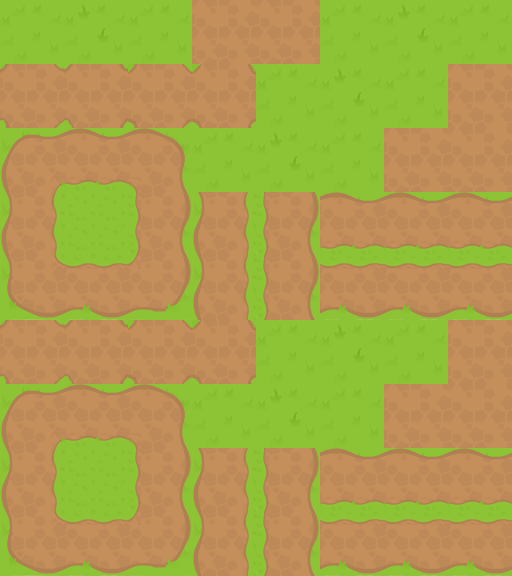
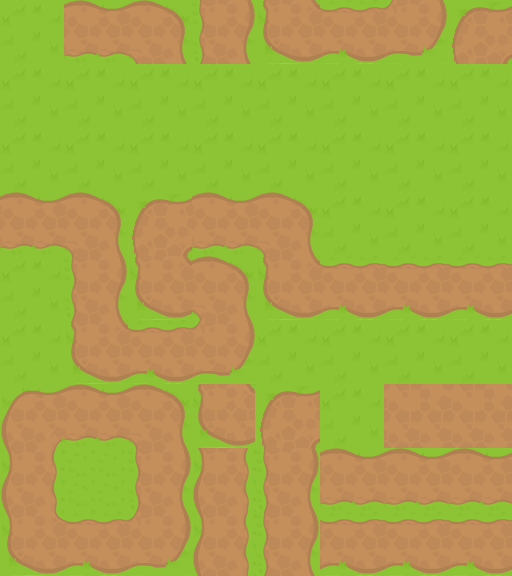
fix gamemap and add method find path

diff --git a/src/background/TileMap.java b/src/background/TileMap.java
@@ -6,8 +6,6 @@ import java.util.ArrayList;
 
 public class TileMap extends ImageView {
 
-	private final String TILEMAP_64 = "res/map/Dirt-Grass-Path-64bit.png";
-
 	private int[][] map;
 	private final int RESOLUTION_WIDTH;
 	private final int RESOLUTION_HEIGHT;
@@ -45,26 +43,24 @@ public class TileMap extends ImageView {
 	}
 
 	private int[][] generateMapArray() {
-		int[][] map = new int[][] { 
-				{ 0, 0, 0, 0, 0, 0, 0, 0, 0, 0, 0, 0, 0, 0, 0, 0, 0, 0, 0, 0 },
+		int[][] map = new int[][] { { 0, 0, 0, 0, 0, 0, 0, 0, 0, 0, 0, 0, 0, 0, 0, 0, 0, 0, 0, 0 },
 				{ 1, 1, 1, 2, 0, 0, 0, 0, 0, 0, 0, 0, 0, 0, 0, 0, 0, 0, 0, 0 },
 				{ 0, 0, 0, 3, 0, 0, 0, 0, 0, 0, 0, 0, 0, 0, 0, 0, 0, 0, 0, 0 },
-				{ 0, 0, 0, 3, 0, 0, 0, 7, 1, 1, 1, 1, 1, 2, 0, 0, 0, 0, 0, 0 },
-				{ 0, 0, 0, 3, 0, 0, 0, 3, 0, 0, 0, 0, 0, 3, 0, 0, 0, 0, 0, 0 },
-				{ 0, 0, 0, 3, 0, 0, 0, 3, 0, 0, 0, 0, 0, 3, 0, 0, 0, 0, 0, 0 },
-				{ 0, 0, 0, 3, 0, 0, 0, 4, 2, 0, 0, 0, 0, 3, 0, 0, 0, 0, 0, 0 },
-				{ 0, 0, 0, 3, 0, 0, 0, 0, 3, 0, 0, 0, 0, 3, 0, 0, 0, 0, 0, 0 },
-				{ 0, 0, 0, 3, 0, 0, 0, 0, 3, 0, 0, 0, 0, 4, 5, 5, 5, 5, 5, 5 },
-				{ 0, 0, 0, 3, 0, 0, 0, 0, 3, 0, 0, 0, 0, 0, 0, 0, 0, 0, 0, 0 },
-				{ 0, 0, 0, 4, 5, 5, 5, 5, 6, 0, 0, 0, 0, 0, 0, 0, 0, 0, 0, 0 },
+				{ 0, 0, 0, 3, 0, 0, 0, 8, 1, 1, 1, 2, 0, 0, 0, 0, 0, 0, 0, 0 },
+				{ 0, 0, 0, 3, 0, 0, 0, 3, 0, 0, 0, 3, 0, 0, 0, 0, 0, 0, 0, 0 },
+				{ 0, 0, 0, 3, 0, 0, 0, 3, 0, 0, 0, 3, 0, 0, 0, 8, 1, 1, 1, 2 },
+				{ 0, 0, 0, 3, 0, 0, 0, 3, 0, 0, 0, 3, 0, 0, 0, 3, 0, 0, 0, 4 },
+				{ 0, 0, 0, 3, 0, 0, 0, 3, 0, 0, 0, 4, 5, 5, 5, 6, 0, 0, 0, 0 },
+				{ 0, 0, 0, 3, 0, 0, 0, 3, 0, 0, 0, 0, 0, 0, 0, 0, 0, 0, 0, 0 },
+				{ 0, 0, 0, 4, 5, 5, 5, 6, 0, 0, 0, 0, 0, 0, 0, 0, 0, 0, 0, 0 },
 				{ 0, 0, 0, 0, 0, 0, 0, 0, 0, 0, 0, 0, 0, 0, 0, 0, 0, 0, 0, 0 },
-				{ 0, 0, 0, 0, 0, 0, 0, 0, 0, 0, 0, 0, 0, 0, 0, 0, 0, 0, 0, 0 } 
-			};
+				{ 0, 0, 0, 0, 0, 0, 0, 0, 0, 0, 0, 0, 0, 0, 0, 0, 0, 0, 0, 0 },
+				{ 0, 0, 0, 0, 0, 0, 0, 0, 0, 0, 0, 0, 0, 0, 0, 0, 0, 0, 0, 0 } };
 		return map;
 	}
 
 	public void repaint() {
-		
+
 		Image tileMap = new Image(ClassLoader.getSystemResource("GameMap/Dirt-Grass-Path-64bit.png").toString());
 		byte[] buffer = new byte[64 * 64 * 4];
 		WritablePixelFormat<ByteBuffer> picFormat = WritablePixelFormat.getByteBgraInstance();
@@ -95,10 +91,14 @@ public class TileMap extends ImageView {
 				case 6:
 					tileMap.getPixelReader().getPixels(384, 0, 64, 64, picFormat, buffer, 0, 256);
 					break;
-				case 7:
+				case 7: // Tower
+					tileMap.getPixelReader().getPixels(448, 0, 64, 64, picFormat, buffer, 0, 256);
+					break;
+				case 8:
 					tileMap.getPixelReader().getPixels(448, 0, 64, 64, picFormat, buffer, 0, 256);
 					break;
 				}
+
 				if (y == TILE_LENGTH_Y - 1 & OFFSET_Y_FLAG) {
 					tileWriter.setPixels(x * 64, y * 64, 64, OFFSET_Y, picFormat, buffer, 0, 256);
 				} else {
@@ -109,4 +109,53 @@ public class TileMap extends ImageView {
 		;
 		this.setImage(paintedMap);
 	}
+
+	public boolean isNodeOpen(int x, int y) {
+		if (map[y][x] != 0) {
+			return false;
+		}
+		return true;
+	}
+
+	public void setNewNode(int x, int y, int value) {
+		map[y][x] = value;
+		repaint();
+	}
+
+	public ArrayList<Coordinate> getPath() {
+		ArrayList<Coordinate> path = new ArrayList<Coordinate>();
+		boolean isXAxis = false;
+		int prevY = 0;
+		int prevX = 0;
+
+		for (int y = 0; !isXAxis; y++) {
+			if (map[y][0] > 0) {
+				path.add(new Coordinate(0, y));
+				isXAxis = true;
+				prevY = y;
+			}
+		}
+
+		for (int x = 0; isXAxis; x++) {
+			if (x == TILE_LENGTH_X) {
+				path.add(new Coordinate(x - 1, prevY));
+				break;
+			}
+
+			if (map[prevY][x] != 0 & ((map[prevY][x] % 2) == 0) & x != prevX) {
+				path.add(new Coordinate(x, prevY));
+				isXAxis = false;
+				prevX = x;
+			}
+			for (int y = 0; !isXAxis; y++) {
+				if (map[y][x] != 0 & ((map[y][x] % 2) == 1) & y != prevY) {
+					path.add(new Coordinate(x, y));
+					isXAxis = true;
+					prevY = y;
+				}
+			}
+		}
+		return path;
+	}
+
 }
